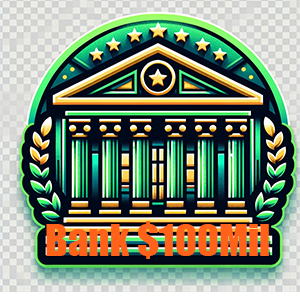
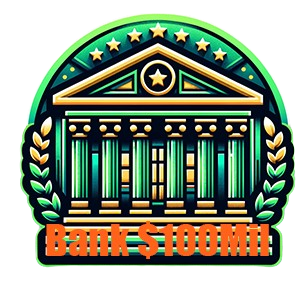
a

diff --git a/achievements.php b/achievements.php
@@ -315,7 +315,7 @@ foreach($achs as $head => $var){
 	foreach(array_reverse($$var) as $ach){
 			echo'<td>';
                 echo'<div class="ach' . $ach['img'] . '" title="' . $ach['title'] . '">
-               <img src="css/images/'.$ach["img"].'.png"> </img>
+               <img src="css/images/'.$ach["img"].'.png" style="width:100px; height:100px;"> </img>
                 </div><br />';
 		switch($var){
 			case 'levelbadges':
